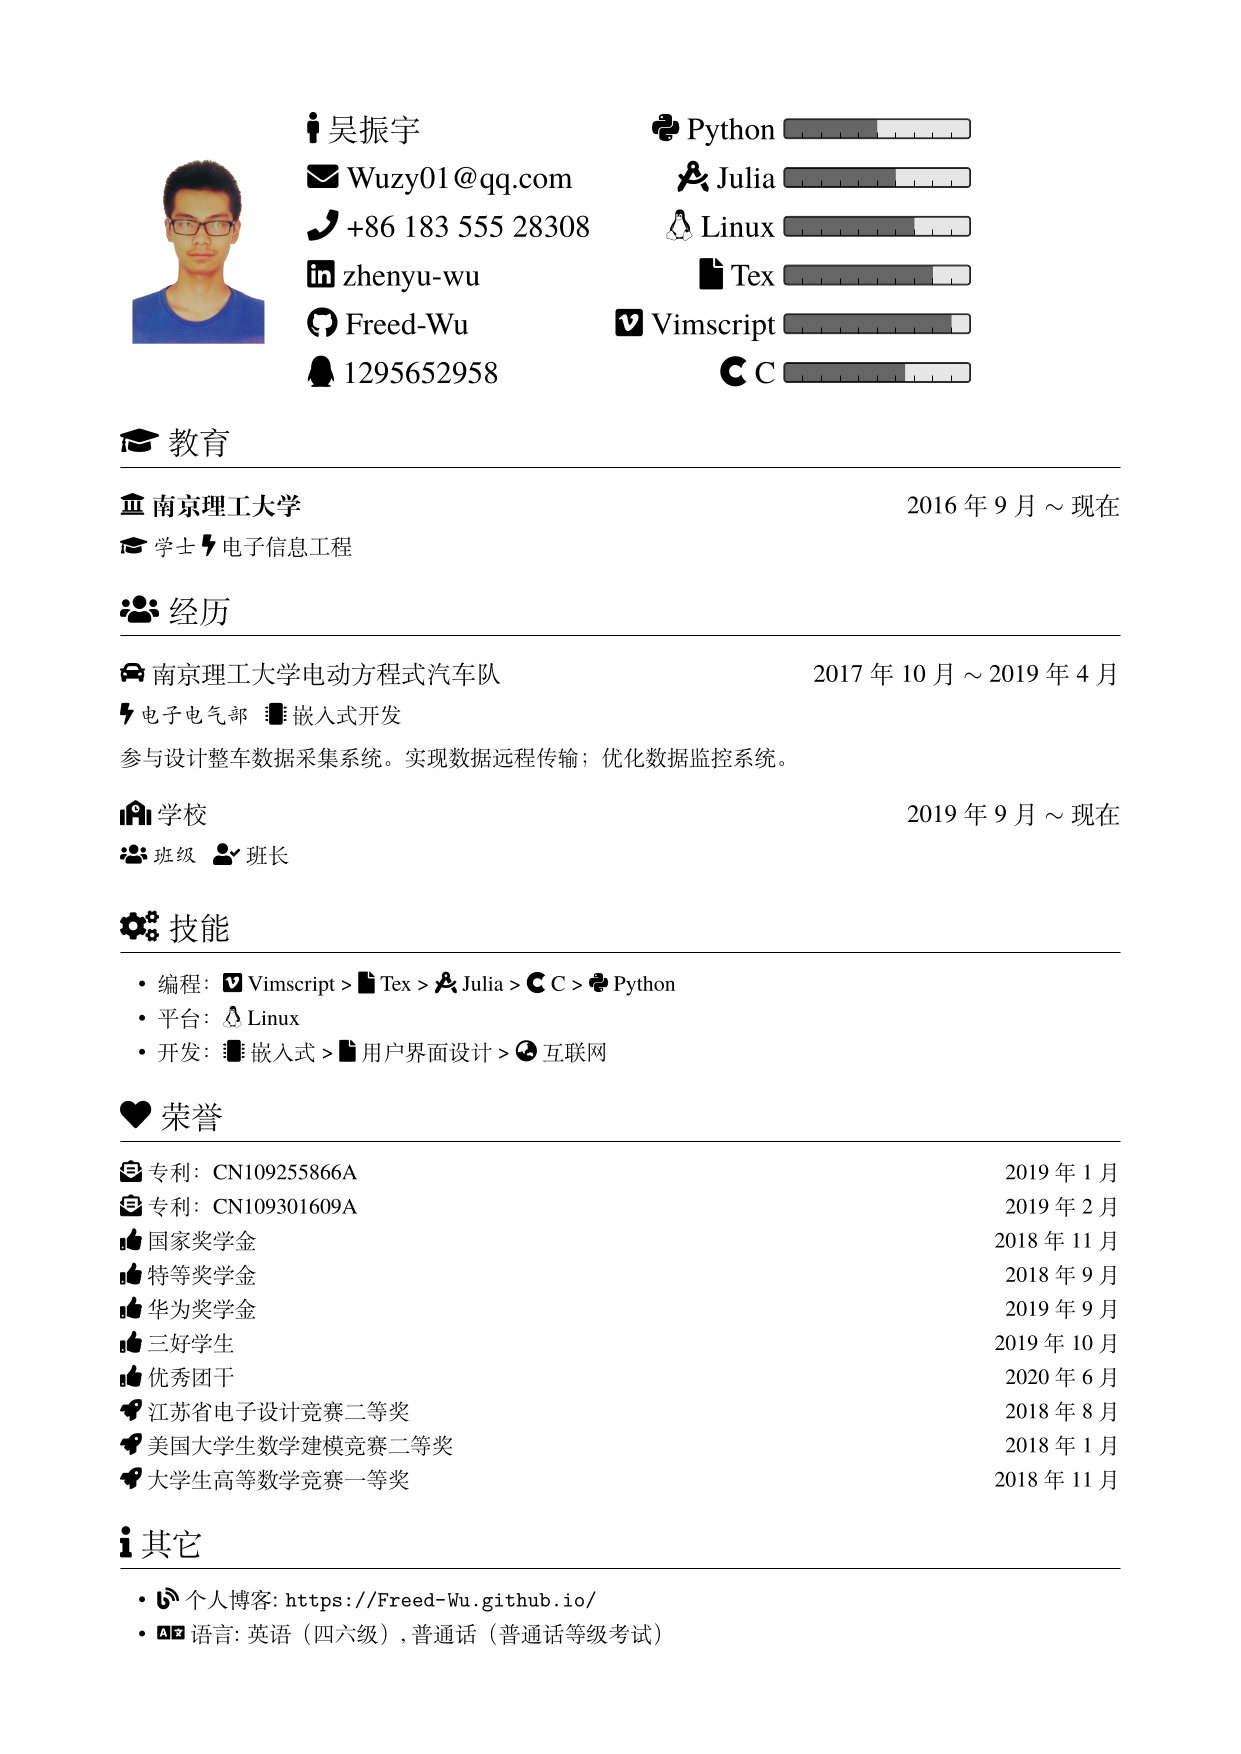
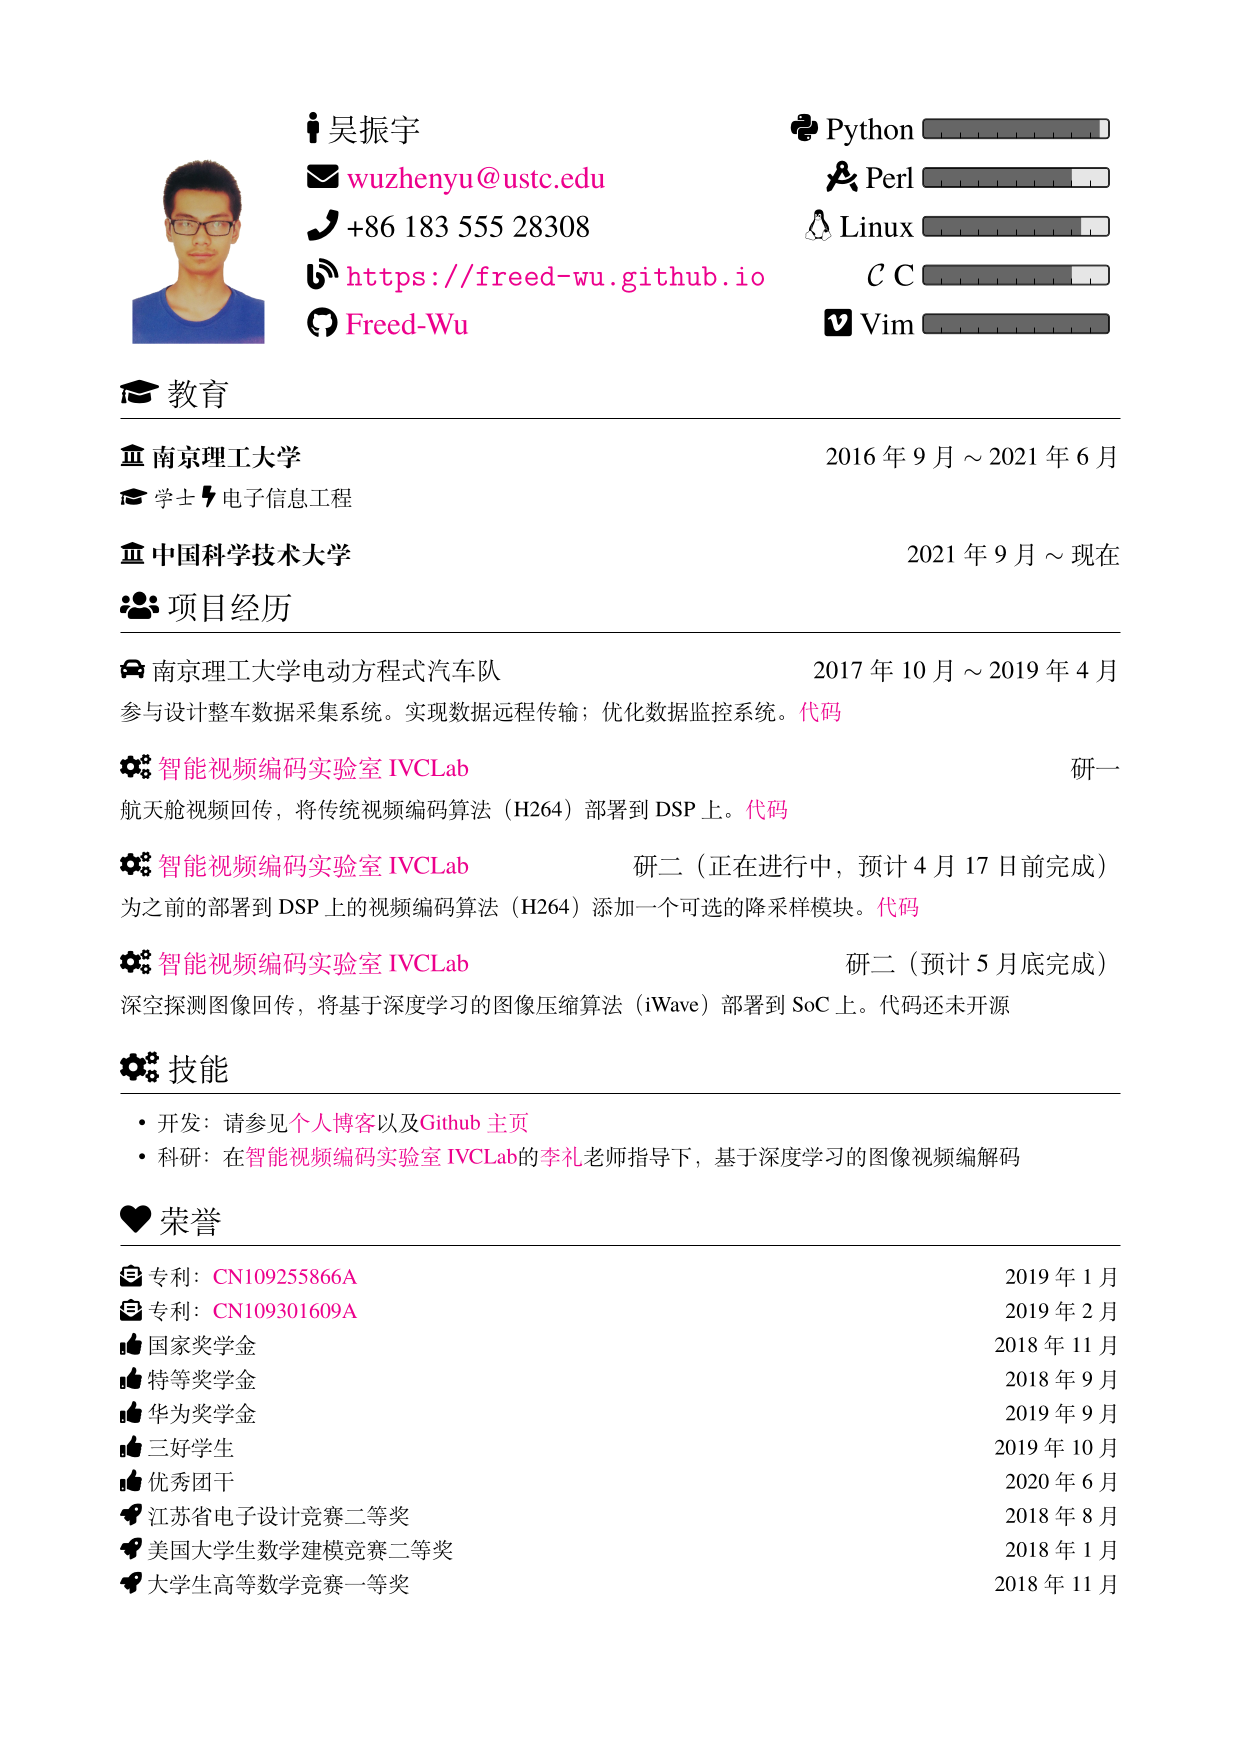
:memo: Update resume

diff --git a/subfiles/zh.tex b/subfiles/zh.tex
@@ -4,57 +4,53 @@
 \Large
 \begin{tabu}{clr}
   \multirow{6}{1in}{\includegraphics[width=0.88in]{images/profile.jpg}} & \faMale\
-  \scshape{吴振宇}                                                         & {\faPython\ Python~}\progressbar{0.5}                                                                          \\
-                                                                        & \email{Wuzy01@qq.com}                                                  & {\faDraftingCompass\
-  Julia~}\progressbar{0.6}                                                                                                                                                               \\
-                                                                        & \phone{+86~183~555~28308}                                              & {\faLinux\ Linux~}\progressbar{0.7}   \\
-                                                                        & \linkedin[zhenyu-wu]{https://www.linkedin.com/in/zhenyu-wu-5625971a7/} &
-  {\faFile\ Tex~}\progressbar{0.8}                                                                                                                                                       \\
-                                                                        & \github[Freed-Wu]{https://www.github.com/Freed-Wu}                     & {\faVimeo\
-  Vimscript~}\progressbar{0.9}                                                                                                                                                           \\
-                                                                        & \faQq\ 1295652958                                                      & {\faCuttlefish\ C~}\progressbar{0.65}
+  \scshape{吴振宇}                                                         & {\faPython\ Python~}\progressbar{0.95}                                                    \\
+                                                                        & \email{wuzhenyu@ustc.edu}                          & {\faDraftingCompass\
+  Perl~}\progressbar{0.8}                                                                                                                                           \\
+                                                                        & \phone{+86~183~555~28308}                          & {\faLinux\ Linux~}\progressbar{0.85} \\
+                                                                        & \faBlog\ \url{https://freed-wu.github.io}          &
+  {$\mathcal{C}$\ C~}\progressbar{0.8}                                                                                                                              \\
+                                                                        & \github[Freed-Wu]{https://www.github.com/Freed-Wu} & {\faVimeo\
+      Vim~}\progressbar{1}
 \end{tabu}
 \normalsize
 
 \section{\faGraduationCap\ 教育}%
 \label{sec:zh_education}
 
-\datedsubsection{\faUniversity\ \textbf{南京理工大学}}{2016年9月 $\sim$ 现在}%
-\label{sub:zh_njust}
-
+\datedsubsection{\faUniversity\ \textbf{南京理工大学}}{2016 年 9 月 $\sim$ 2021 年6 月}%
 \faGraduationCap\ \emph{学士}\ \faBolt\ 电子信息工程
+\datedsubsection{\faUniversity\ \textbf{中国科学技术大学}}{2021 年 9 月 $\sim$ 现在}%
 
-\section{\faUsers\ 经历}%
+\section{\faUsers\ 项目经历}%
 \label{sub:zh_experience}
 
 \datedsubsection{\faCar\ 南京理工大学电动方程式汽车队}{2017年10月 $\sim$ 2019年4月}%
-\label{sub:zh_fsae}
+参与设计整车数据采集系统。实现数据远程传输；优化数据监控系统。\href{https://github.com/Freed-Wu/steering-wheel-mcu}{代码}
 
-\role{\faBolt\ 电子电气部}{\faMicrochip\ 嵌入式开发}
-参与设计整车数据采集系统。实现数据远程传输；优化数据监控系统。
+\datedsubsection{\faCogs\ \href{https://ustc-ivclab.github.io}{智能视频编码实验室 IVCLab}}{研一}%
+航天舱视频回传，将传统视频编码算法（H264）部署到 DSP 上。\href{https://github.com/Freed-Wu/x264}{代码}
 
-\datedsubsection{\faSchool\ 学校}{2019年9月 $\sim$ 现在}%
-\label{sub:zh_school}
+\datedsubsection{\faCogs\ \href{https://ustc-ivclab.github.io}{智能视频编码实验室 IVCLab}}{研二（正在进行中，预计 4 月 17 日前完成）}%
+为之前的部署到 DSP 上的视频编码算法（H264）添加一个可选的降采样模块。\href{https://github.com/Freed-Wu/x264-dsp}{代码}
 
-\role{\faUsers\ 班级}{\faUserCheck\ 班长}
+\datedsubsection{\faCogs\ \href{https://ustc-ivclab.github.io}{智能视频编码实验室 IVCLab}}{研二（预计 5 月底完成）}%
+深空探测图像回传，将基于深度学习的图像压缩算法（iWave）部署到 SoC 上。
+代码还未开源
 
 \section{\faCogs\ 技能}%
 \label{sec:zh_skills}
 
 \begin{itemize}
-  \item 编程：\faVimeo\ Vimscript > \faFile\ Tex >
-        \faDraftingCompass\ Julia > \faCuttlefish\ C > \faPython\ Python
-  \item 平台：\faLinux\ Linux
-  \item 开发：\faMicrochip\ 嵌入式 > \faFile\ 用户界面设计 > \faGlobeAsia\ 互联网
+  \item 开发：请参见\href{https://freed-wu.github.io}{个人博客}以及\href{https://www.github.com/Freed-Wu}{ Github 主页}
+  \item 科研： 在\href{https://ustc-ivclab.github.io}{智能视频编码实验室 IVCLab}的\href{https://ustc-ivclab.github.io/people/2020/09/01/li,-li.html}{李礼}老师指导下，基于深度学习的图像视频编解码
 \end{itemize}
 
 \section{\faHeart\ 荣誉}%
 \label{sec:zh_honors}
 
-\datedline{\faEnvelopeOpenText\ 专利：
-  \href{http://epub.sipo.gov.cn/}{CN109255866A}}{2019年1月}
-\datedline{\faEnvelopeOpenText\ 专利：
-  \href{http://epub.sipo.gov.cn/}{CN109301609A}}{2019年2月}
+\datedline{\faEnvelopeOpenText\ 专利：\href{http://epub.sipo.gov.cn/}{CN109255866A}}{2019年1月}
+\datedline{\faEnvelopeOpenText\ 专利：\href{http://epub.sipo.gov.cn/}{CN109301609A}}{2019年2月}
 \datedline{\faThumbsUp\ 国家奖学金}{2018年11月}
 \datedline{\faThumbsUp\ 特等奖学金}{2018年9月}
 \datedline{\faThumbsUp\ 华为奖学金}{2019年9月}
@@ -63,13 +59,5 @@
 \datedline{\faRocket\ 江苏省电子设计竞赛二等奖}{2018年8月}
 \datedline{\faRocket\ 美国大学生数学建模竞赛二等奖}{2018年1月}
 \datedline{\faRocket\ 大学生高等数学竞赛一等奖}{2018年11月}
-
-\section{\faInfo\ 其它}%
-\label{sec:zh_miscellaneous}
-
-\begin{itemize}
-  \item\faBlog\ 个人博客: \url{https://Freed-Wu.github.io/}
-  \item\faLanguage\ 语言: 英语（四六级）, 普通话（普通话等级考试）
-\end{itemize}
 
 \end{document}

diff --git a/main.tex b/main.tex
@@ -15,9 +15,10 @@
 \usepackage{xspace}
 \newcommand{\Authorname}[0]{\href{mailto:\Email}{\Name}\xspace}
 \author{\Authorname\thanks{\href{https://ustc.edu.cn/}{USTC}}}
+\hypersetup{colorlinks=true}
 \begin{document}
 
 \subfile{subfiles/zh}
-\subfile{subfiles/en}
+% \subfile{subfiles/en}
 
 \end{document}

diff --git a/README.md b/README.md
@@ -141,7 +141,6 @@ This is my [resume :notebook:](https://github.com/Freed-Wu/Freed-Wu/releases).
 
 <details>
   <summary>Resume</summary>
-  <img src="images/main-2.png"><img>
   <img src="images/main-1.png"><img>
 </details>
 
